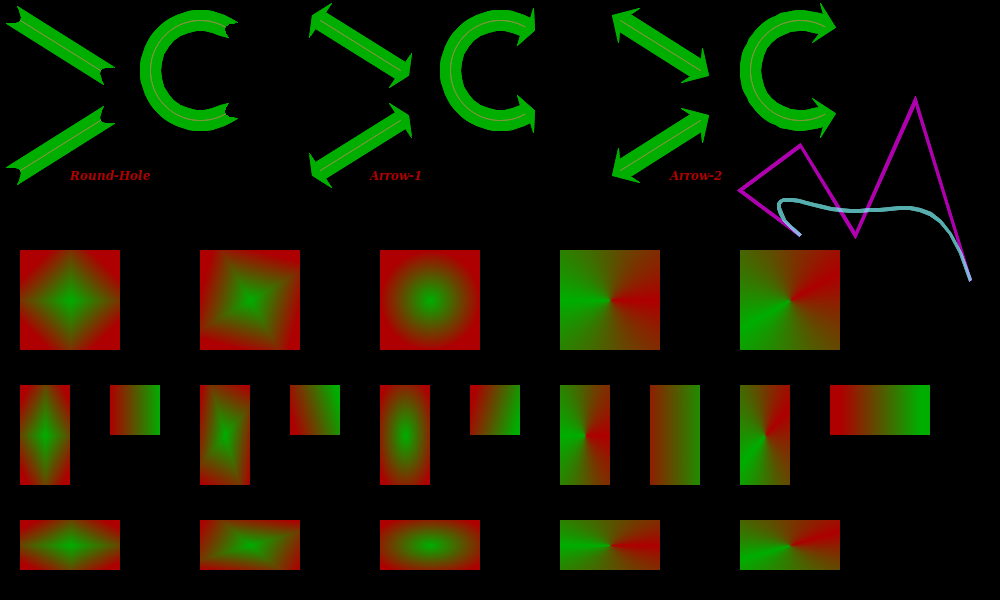
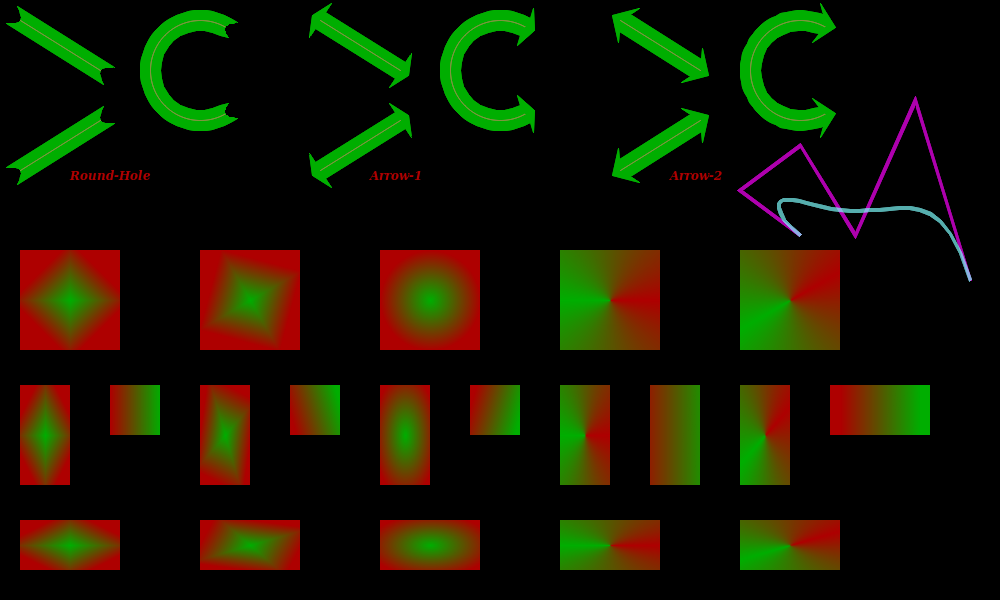
Improving rectangular gradient

diff --git a/src/Pt-Gfx/Rasterizer2.cpp b/src/Pt-Gfx/Rasterizer2.cpp
@@ -469,7 +469,7 @@ void Rasterizer2::updateGradientBrush_gen2DRectangularGradient(Pt::int32_t width
     float ctrX, ctrY, xyRat, yxRat;
     updateGradientBrush_getCtrRatXY(ctrX, ctrY, xyRat, yxRat, width, height);
 
-    const float rrFac = 2.0f / scale / Gfx::Math::fastSqrt(xyRat * xyRat + yxRat * yxRat);
+    const float rrFac = 2.4f / scale / Gfx::Math::fastSqrt(xyRat * xyRat + yxRat * yxRat);
 
     // Calculate the rotation
     const float rad  = -angle * Gfx::Math::PiDiv180;
